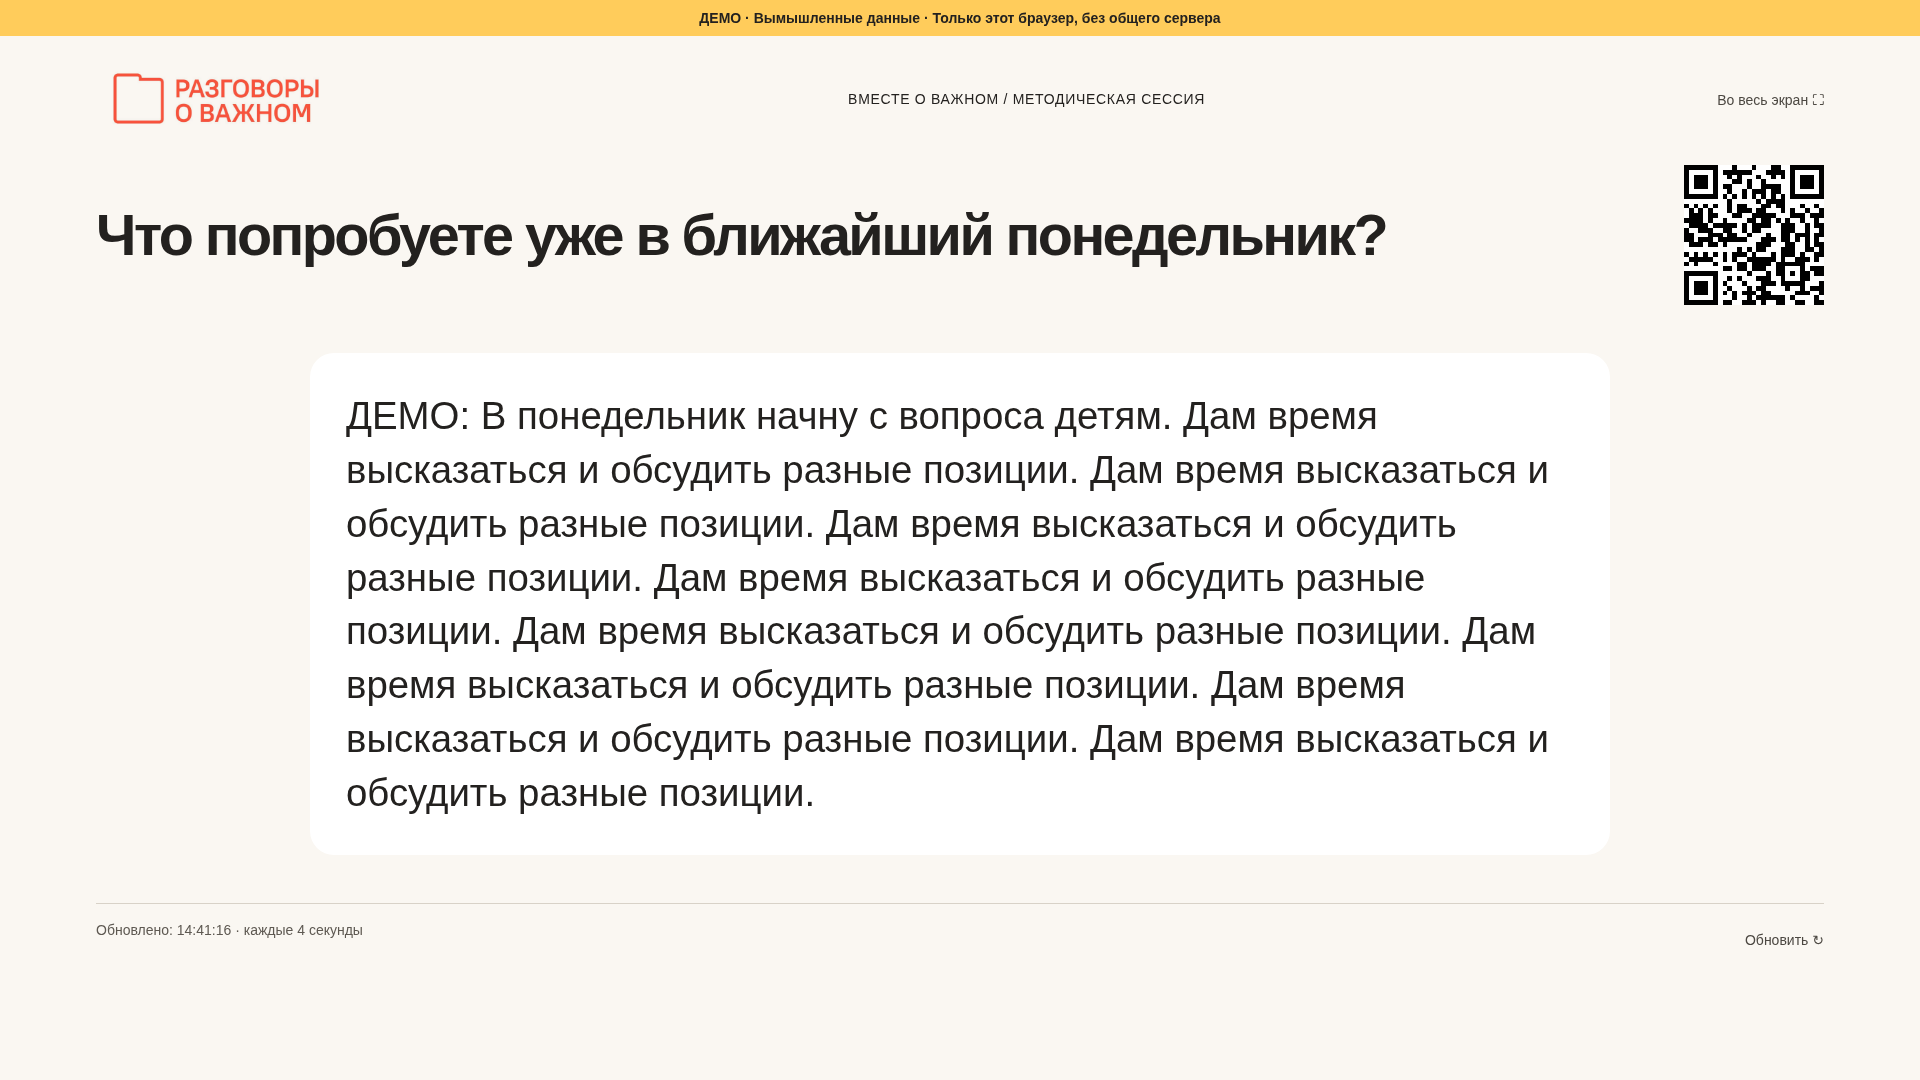
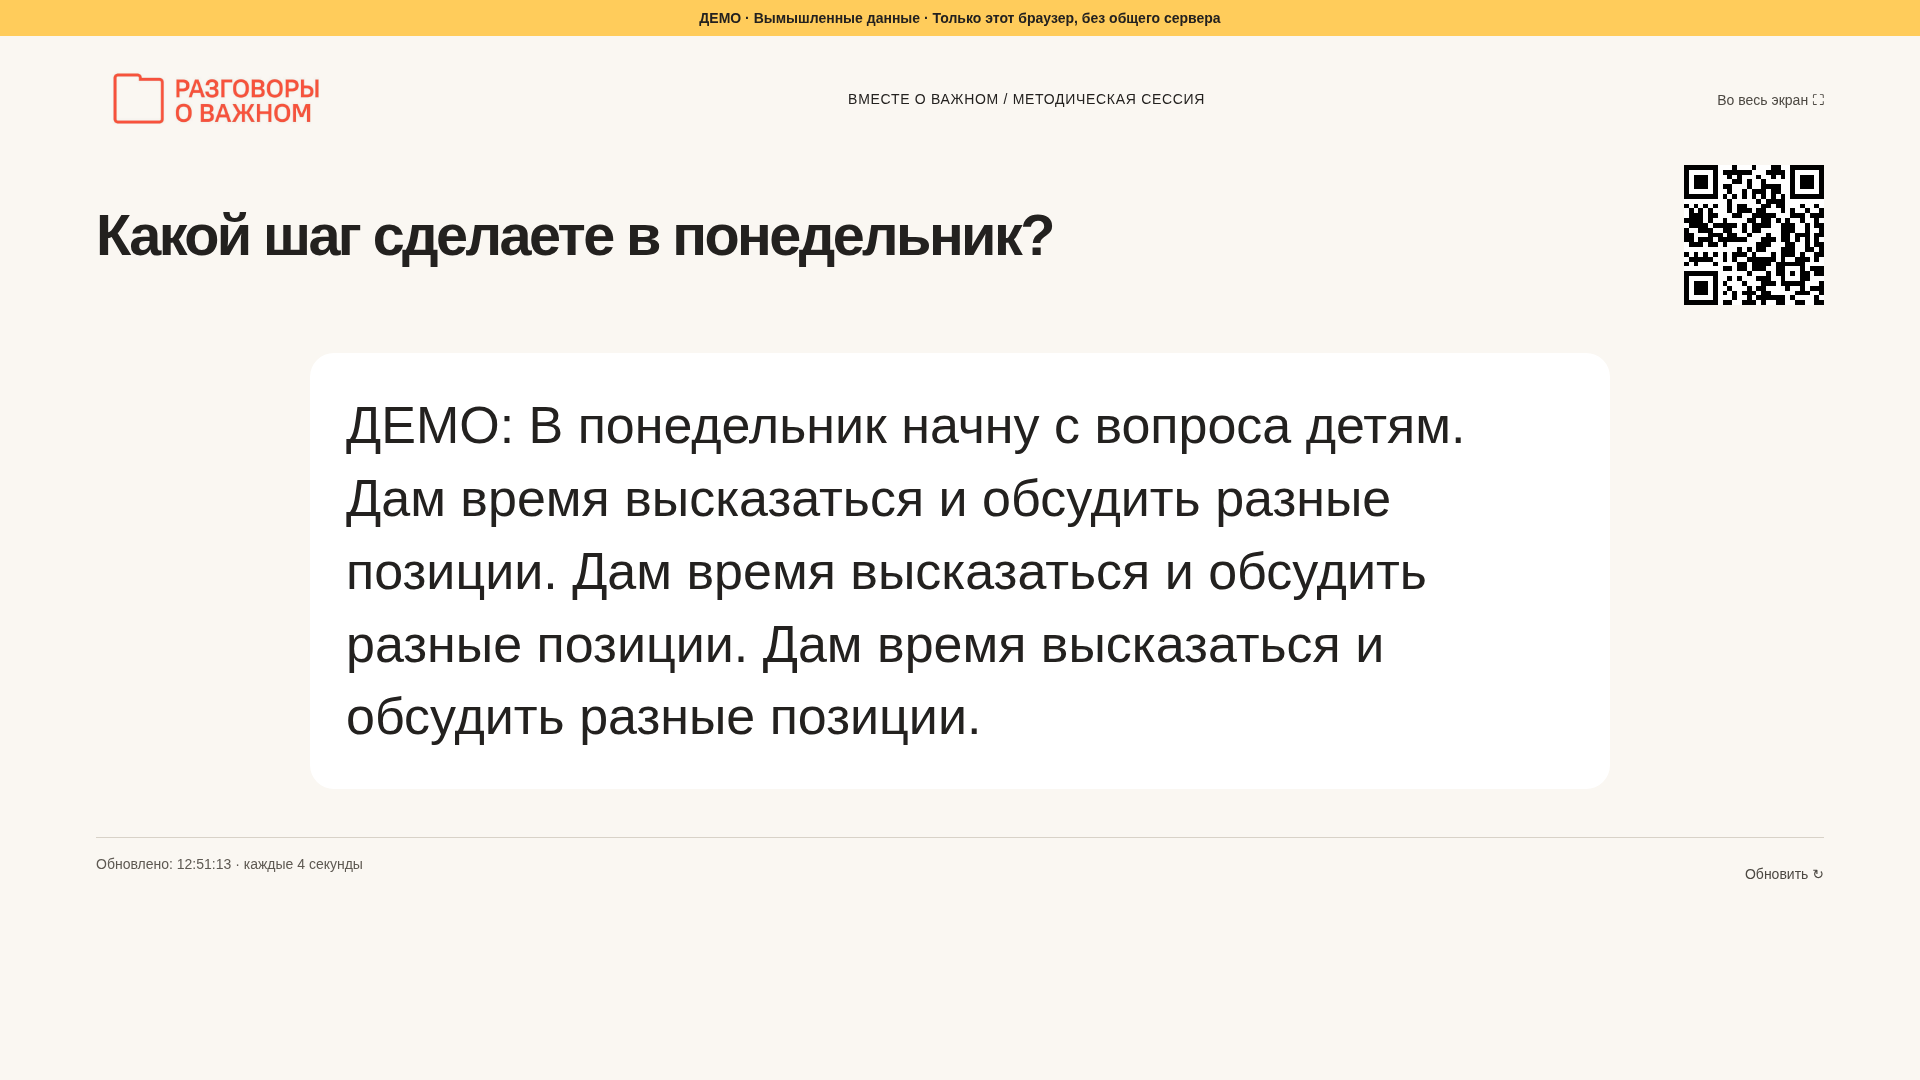
Limit session answers and allow safe final question editing

diff --git a/tests/browser/session.spec.ts b/tests/browser/session.spec.ts
@@ -63,11 +63,11 @@ test("two stages: cloud moderation and frequency, final spotlight, closure and c
   await participant.reload();
   await expect(participant.locator("textarea")).toHaveAttribute(
     "maxlength",
-    "1000",
+    "300",
   );
   const finalText = (
     "ДЕМО: В понедельник начну с вопроса детям. " +
-    "Дам время высказаться и обсудить разные позиции. ".repeat(8)
+    "Дам время высказаться и обсудить разные позиции. ".repeat(3)
   ).trim();
   await participant.locator("textarea").fill(finalText);
   await participant.screenshot({
@@ -88,6 +88,15 @@ test("two stages: cloud moderation and frequency, final spotlight, closure and c
   await admin
     .getByRole("button", { name: "Одобрить и показать", exact: true })
     .click();
+  await admin
+    .getByLabel("Финальный вопрос", { exact: true })
+    .fill("Какой шаг сделаете в понедельник?");
+  await admin
+    .getByRole("button", { name: "Сохранить вопрос", exact: true })
+    .click();
+  await expect(
+    admin.getByRole("heading", { name: "Какой шаг сделаете в понедельник?" }),
+  ).toBeVisible();
   await screen.reload();
   await expect(screen.locator(".featured-answer")).toHaveText(finalText);
   await screen.screenshot({
@@ -162,11 +171,9 @@ test("projector folder lays out a large moderated cloud without clipping", async
     "возможность услышать",
   ];
   b.polls[0].cloud_words = cloudWords(
-    phrases.flatMap((text, i) =>
-      Array.from({ length: 1 + Math.floor((phrases.length - i) / 3) }, () => ({
-        text,
-      })),
-    ),
+    Array.from({ length: 350 }, (_, i) => ({
+      text: phrases[i < 175 ? i % 5 : i % phrases.length],
+    })),
   );
   await page
     .context()
@@ -179,11 +186,17 @@ test("projector folder lays out a large moderated cloud without clipping", async
   await expect(page.locator("text[data-word-count]")).toHaveCount(
     phrases.length,
   );
+  expect(b.polls[0].cloud_words.reduce((n, w) => n + w.count, 0)).toBe(350);
   const svg = page.locator(".folder-cloud");
   const bounds = await svg.boundingBox();
   expect(bounds!.y + bounds!.height).toBeLessThanOrEqual(1080);
   await page.screenshot({
     path: "docs/screenshots/05-cloud.png",
+    fullPage: true,
+  });
+  await page.setViewportSize({ width: 1366, height: 768 });
+  await page.screenshot({
+    path: "docs/screenshots/10-cloud-350-laptop.png",
     fullPage: true,
   });
 });

diff --git a/src/SessionAdmin.tsx b/src/SessionAdmin.tsx
@@ -92,6 +92,10 @@ export function SessionAdmin({
         ))}
       </div>
       <h2>{p.title}</h2>
+      {operate && !isCloud && (
+        <FinalQuestion key={p.id + p.title} poll={p} busy={busy} run={run} />
+      )}
+
       {operate && (
         <div className="toolbar stage-controls">
           <button
@@ -286,5 +290,39 @@ function SessionResponse({
         )}
       </div>
     </article>
+  );
+}
+
+function FinalQuestion({
+  poll,
+  busy,
+  run,
+}: {
+  poll: Poll;
+  busy: boolean;
+  run: Run;
+}) {
+  const [title, setTitle] = useState(poll.title);
+  return (
+    <form
+      onSubmit={async (e) => {
+        e.preventDefault();
+        await run("rename_final", { id: poll.id, title: title.trim() });
+      }}
+    >
+      <label>
+        Финальный вопрос
+        <textarea
+          aria-label="Финальный вопрос"
+          maxLength={500}
+          value={title}
+          onChange={(e) => setTitle(e.target.value)}
+        />
+      </label>
+      <button disabled={busy || !title.trim() || title.trim() === poll.title}>
+        Сохранить вопрос
+      </button>
+      <p className="note">Ответы сохраняются при изменении вопроса.</p>
+    </form>
   );
 }

diff --git a/src/api.ts b/src/api.ts
@@ -115,6 +115,12 @@ export async function action(
   op: string,
   payload: Record<string, unknown> = {},
 ) {
+  if (db && op === "rename_final")
+    return rpc("rename_final_question", {
+      p_code: code,
+      p_poll: payload.id,
+      p_title: payload.title,
+    });
   if (db && op === "stage")
     return rpc("control_stage", {
       p_code: code,
@@ -132,6 +138,15 @@ export async function action(
   let b = read();
   const p = b.polls.find((p) => p.id === payload.id);
   switch (op) {
+    case "rename_final":
+      if (!p || sessionStage(p) !== "final") throw Error("Выберите финал");
+      if (
+        !String(payload.title || "").trim() ||
+        String(payload.title).trim().length > 500
+      )
+        throw Error("Вопрос: от 1 до 500 символов");
+      p.title = String(payload.title).trim();
+      break;
     case "stage":
       if (!p || !sessionStage(p)) throw Error("Этап не найден");
       b.polls.forEach((q) => {

diff --git a/tests/session.test.ts b/tests/session.test.ts
@@ -6,7 +6,7 @@ import { insideFolder, layoutCloud } from "../src/cloud-layout.ts";
 test("two exact slide questions, scoped final export, whole phrases and case-insensitive frequencies", () => {
   const b = initialSessionDemo();
   assert.equal(b.polls.length, 2);
-  assert.equal(b.polls[1].max_length, 1000);
+  assert.equal(b.polls[1].max_length, 300);
   assert.deepEqual(
     cloudWords([
       { text: " Диалог " },

diff --git a/src/session.ts b/src/session.ts
@@ -5,13 +5,13 @@ export const sessionQuestions = [
     title: "Так что для вас «Разговоры о важном»?",
     stage: "cloud",
     slide: "3",
-    max: 80,
+    max: 50,
   },
   {
     title: "Что попробуете уже в ближайший понедельник?",
     stage: "final",
     slide: "34",
-    max: 1000,
+    max: 300,
   },
 ] as const;
 

diff --git a/docs/organiser.md b/docs/organiser.md
@@ -14,7 +14,7 @@
 Вопрос: **Так что для вас «Разговоры о важном»?**
 
 1. Выберите «Облако слов» и нажмите **Открыть приём**.
-2. Участники открывают QR и отправляют слово или фразу до 80 символов. От одного устройства принимается один ответ на каждый этап.
+2. Участники открывают QR и отправляют слово или фразу до 50 символов. От одного устройства принимается один ответ на каждый этап.
 3. В очереди нажимайте **Одобрить**. Текст можно поправить перед одобрением; исходник остаётся в закрытом аудите. Ожидающие и скрытые ответы в облако не попадают.
 4. Облако заполняет контур красной папки. Одинаковые фразы с разным регистром и лишними пробелами объединяются; частые фразы становятся крупнее. Фразы не разбиваются на отдельные слова и не дополняются автоматически.
 5. **Завершить приём** останавливает отправку, сохраняя облако на экране. **Скрыть экран** временно прячет его.
@@ -26,7 +26,7 @@
 Вопрос: **Что попробуете уже в ближайший понедельник?**
 
 1. Выберите «Письменные ответы» и нажмите **Открыть приём**. Первый этап автоматически закроется, а на той же ссылке участника появится новый вопрос.
-2. Ответ может содержать до 1000 символов. Он остаётся закрытым до вашего одобрения.
+2. Ответ может содержать до 300 символов. Он остаётся закрытым до вашего одобрения.
 3. Нажмите **Одобрить и показать** — выбранный ответ появится на проекторе крупно.
 4. Для повторного показа откройте фильтр **Одобрены** и нажмите **На экран**. **Показать последние ответы** возвращает общую доску с переключением страниц.
 5. **Завершить приём** закрывает форму участника, сохраняя ответы для показа и выгрузки.
@@ -44,3 +44,5 @@
 Прежние вопросы, ответы и агрегаты предварительной анкеты сохранены в базе как архивные. В рабочем пульте их нет. Исходная Google-таблица не изменяется. Повторная публикация не обнуляет ответы и не переключает уже запущенные этапы.
 
 Для репетиции используйте локальный режим DEMO: он помечен жёлтой полосой и хранит данные только в этом браузере. Автоматические проверки общей базы создают отдельное тестовое событие и удаляют его; в настоящую сессию вымышленные ответы не записываются.
+
+Формулировку финала можно изменить в пульте: откройте «Письменные ответы», измените поле «Финальный вопрос» и нажмите «Сохранить вопрос». Ранее полученные ответы, модерация и выбранный ответ сохраняются.
